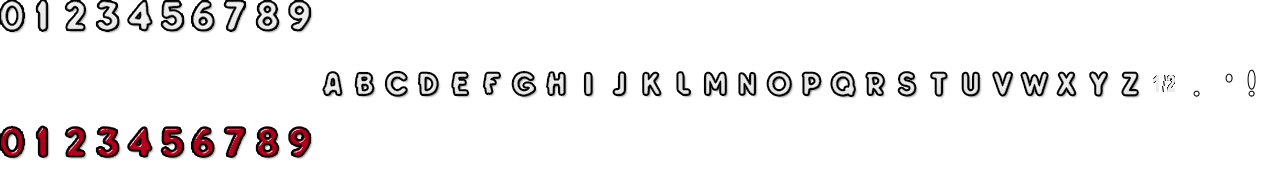
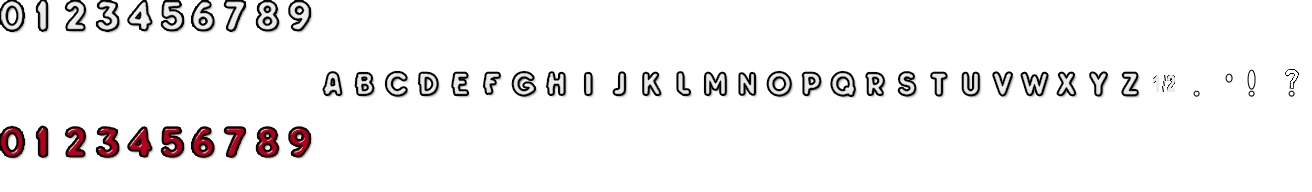
Add question mark; and use exclamation mark for quitter/loser/congratulations messages.

Changed region(s): [[0.2188, 0.3438, 1.0, 0.5312], [0.0, 0.6562, 0.25, 0.8438], [0.0, 0.0, 0.25, 0.1875]]

diff --git a/gamestate.cpp b/gamestate.cpp
@@ -338,7 +338,7 @@ void GameState::createQuitWindow() {
     if( confirm_window == NULL && !state_changed ) {
 		confirm_type = CONFIRMTYPE_QUITGAME;
 		confirm_window = new PanelPage(120, 120, 64, 32);
-		Button *text_button = new Button(0, 0, "REALLY QUIT", letters_small);
+		Button *text_button = new Button(0, 0, "REALLY QUIT?", letters_small);
 		confirm_window->add(text_button);
 		confirm_yes_button = new Button(0, 16, "YES", letters_small);
 		confirm_window->add(confirm_yes_button);
@@ -2813,15 +2813,15 @@ void EndIslandGameState::draw() {
 	background->draw(0, 0);
 	char text[4096] = "";
 	if( gameResult == GAMERESULT_QUIT )
-		strcpy(text, "QUITTER");
+		strcpy(text, "QUITTER!");
 	else if( gameResult == GAMERESULT_LOST )
-		strcpy(text, "LOSER");
+		strcpy(text, "LOSER!");
 	else if( gameResult == GAMERESULT_WON )
-		strcpy(text, "CONGRATULATIONS");
+		strcpy(text, "CONGRATULATIONS!");
 	else {
 		ASSERT(false);
 	}
-	Image::write(160, 120, letters_large, text, Image::JUSTIFY_CENTRE);
+	Image::write(160, 120, letters_small, text, Image::JUSTIFY_CENTRE);
 
 	bool suspend = false;
 	if( start_epoch >= 6 && gameResult == GAMERESULT_WON )

diff --git a/image.cpp b/image.cpp
@@ -1463,6 +1463,12 @@ void Image::writeMixedCase(int x,int y,Image *large[n_font_chars_c],Image *littl
 			else if( large[font_index_exclamation_c] != NULL )
 				large[font_index_exclamation_c]->draw(cx, y);
 		}
+		else if( ch == '?' ) {
+			if( little[font_index_question_c] != NULL )
+				little[font_index_question_c]->draw(cx, y);
+			else if( large[font_index_question_c] != NULL )
+				large[font_index_question_c]->draw(cx, y);
+		}
 		else {
 			continue; // don't increase cx
 		}

diff --git a/game.cpp b/game.cpp
@@ -2039,6 +2039,7 @@ bool loadImages() {
 	letters_small[font_index_period_c] = icons->copy(296, 16, 6, number_h_c);
 	letters_small[font_index_apostrophe_c] = icons->copy(304, 16, 6, number_h_c);
 	letters_small[font_index_exclamation_c] = icons->copy(312, 16, 6, number_h_c);
+	letters_small[font_index_question_c] = icons->copy(320, 16, 6, number_h_c);
 
 	delete icons;
 	drawProgress(50);

diff --git a/image.h b/image.h
@@ -17,10 +17,11 @@ using std::string;
 #include <sdl_image.h>
 #endif
 
-const int n_font_chars_c = 29;
+const int n_font_chars_c = 30;
 const int font_index_period_c = 26;
 const int font_index_apostrophe_c = 27;
 const int font_index_exclamation_c = 28;
+const int font_index_question_c = 29;
 
 namespace Gigalomania {
 	class Image : public TrackedObject {
